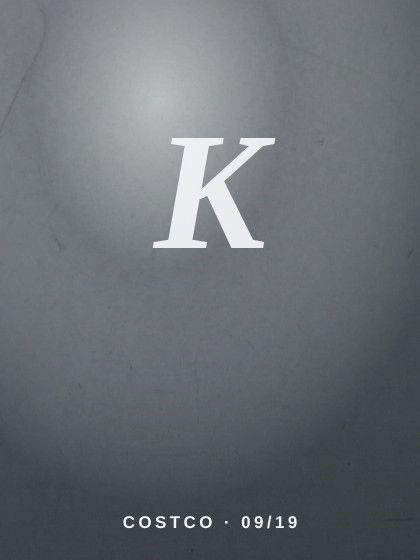
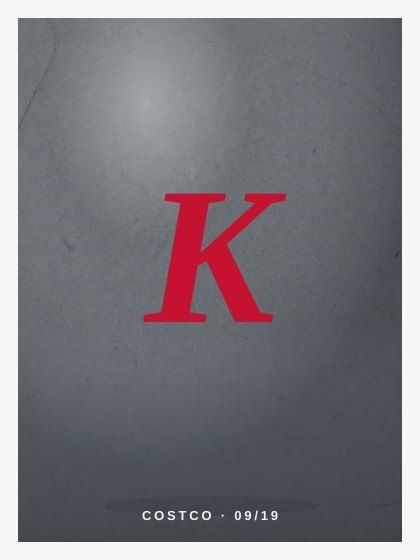
Print Kirk's Gold Star ID as a warehouse photo booth print
Keep the booth-and-K (no invented face). Composite the Costco-red
initial after the flash so it stays on the print, add a white photo
border and date stamp, and sit it in the app Card well.

Changed region(s): [[0.0, 0.0, 1.0, 1.0]]

diff --git a/components/GoldStarMembershipCard.tsx b/components/GoldStarMembershipCard.tsx
@@ -30,7 +30,7 @@ export default function GoldStarMembershipCard() {
         Scan at the warehouse
       </p>
       <div className="relative px-3 pt-2.5 pb-1 flex gap-3 items-center">
-        <KirkIdPhoto className="w-[72px] aspect-[3/4] rounded-[4px] border border-[#e8e8e8] shrink-0" />
+        <KirkIdPhoto className="w-[80px] aspect-[3/4] rounded-[3px] border border-[#d8d8d8] shadow-[inset_0_0_0_1px_#fff] shrink-0" />
         <div className="min-w-0">
           <p className="text-[20px] font-black tracking-tight text-[#1a1a1a] leading-none">
             KIRK

diff --git a/components/KirkIdPhoto.tsx b/components/KirkIdPhoto.tsx
@@ -7,7 +7,7 @@ export default function KirkIdPhoto({ className = "" }: { className?: string }) 
     >
       {/* eslint-disable-next-line @next/next/no-img-element */}
       <img
-        src="/kirk/id-portrait.jpg?v=10"
+        src="/kirk/id-portrait.jpg?v=11"
         alt=""
         className="absolute inset-0 h-full w-full object-cover"
       />
